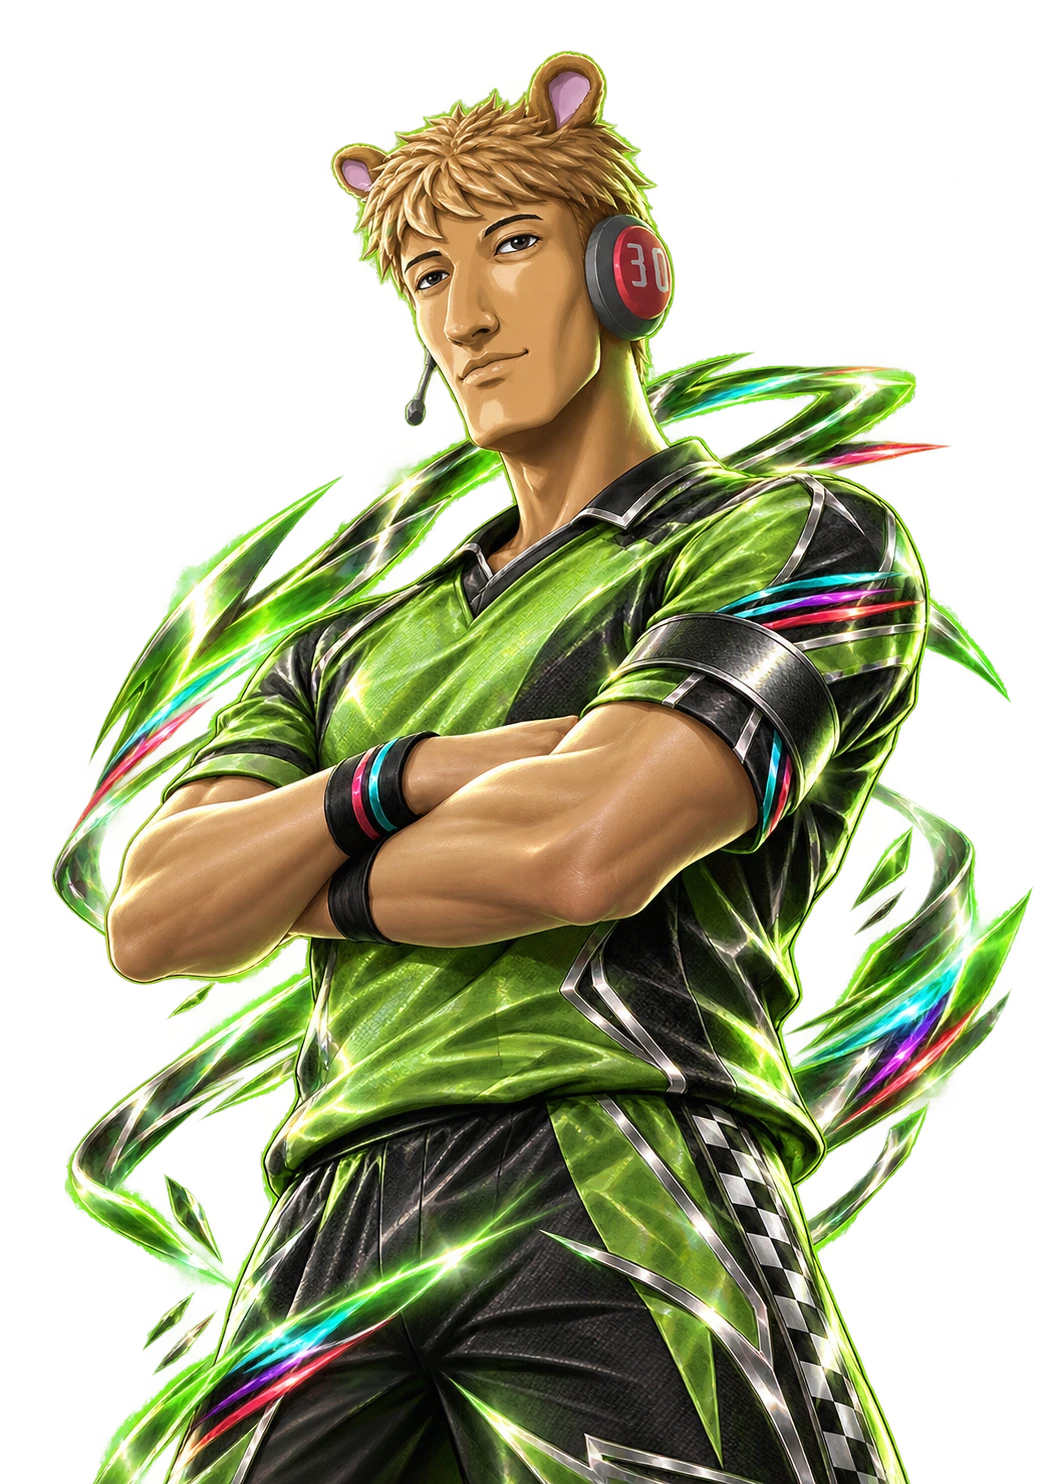
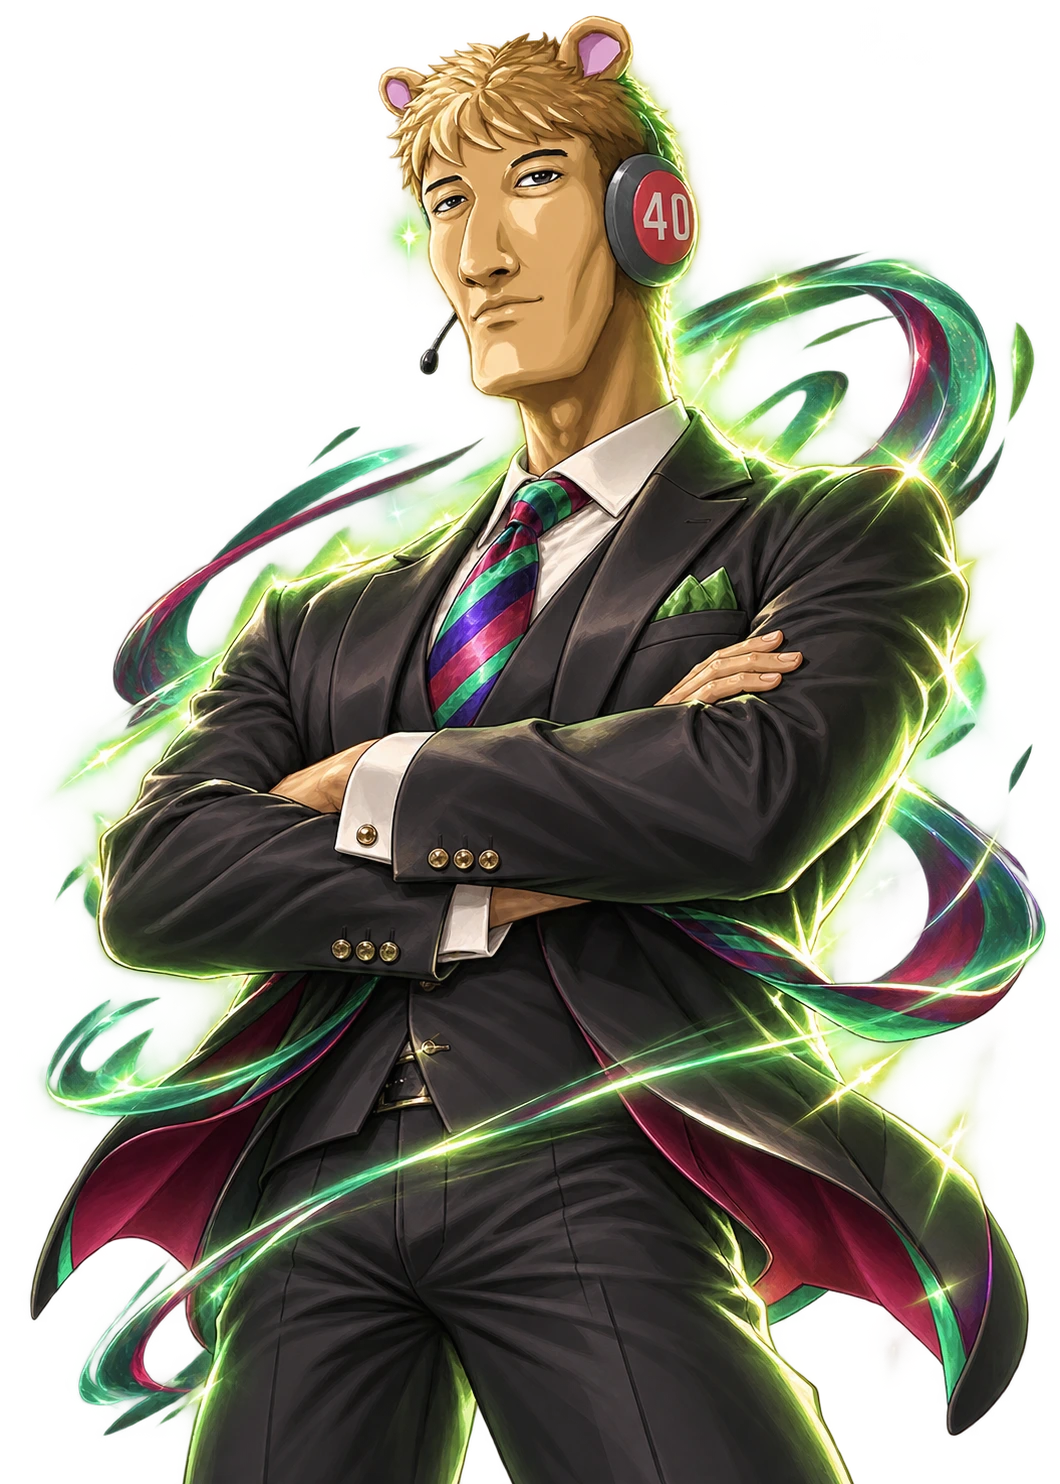
feat: replace 3d character image of wakgood

diff --git a/docs/toty-card-prompts.md b/docs/toty-card-prompts.md
@@ -1377,22 +1377,53 @@ people, no border/frame, no text. High detail, 4K, PNG, 1060x1484.
 
 **캐릭터** (우왁굳 참고 사진 첨부 + 완성된 프레임 이미지를 색상 참고용으로 함께 첨부):
 ```
-Turn the reference photo into a stylized premium trading-card 3D player
-render, semi-realistic style, using the same vivid peridot-green +
-teal-violet-crimson racing-stripe palette as the attached frame image. Kit
-in peridot-green with matte-black and chrome trim, subtle racing-stripe
-accents on the sleeve/collar (no real car brand logos or badges anywhere on
-the kit). A confident, commanding "team captain / director" pose — arms
-crossed or one hand raised in a decisive gesture, standing tall with a
-knowing grin, radiating authority over the whole club rather than a
-specific playing pose. A faint aura of glowing peridot-green energy with
-streaks of light like motion-blur speed lines curling around him. Viewed
-from a slight low front 3/4 angle, visible head to mid-thigh. Rich,
-dramatic rim lighting with a touch of chrome sparkle, matching the most
-lavish, highest-rarity treatment in this whole card series. No frame, no
-text, no background, no real brand logos — fully transparent PNG with
-alpha channel, 1060x1484, leave open space above the head and below the
-waist for name/stat overlays.
+Turn the reference photo into a stylized premium trading-card 3D render,
+semi-realistic style, using the same vivid peridot-green +
+teal-violet-crimson racing-stripe palette as the attached frame image. The
+reference photo's headphone ear-cup shows the number "30" — change this to
+"40" in the render (keep the same font/style/red badge look, digits only
+changed). Dressed as an elite football club manager/director rather than a
+player —
+a sharply tailored blazer over a crisp dress shirt, a slim racing-stripe
+silk tie in the teal-violet-crimson accent colors, a peridot-green pocket
+square, sleeve cuffs precise (no real car brand logos or badges anywhere
+on the outfit). A confident, commanding "club owner / manager" stance —
+arms crossed or one hand tucked into the blazer pocket, standing tall with
+a knowing grin, radiating authority over the whole club rather than a
+playing pose. A faint aura of glowing peridot-green energy with streaks of
+light like motion-blur speed lines curling around him. Viewed from a
+slight low front 3/4 angle, visible head to mid-thigh. Rich, dramatic rim
+lighting with a touch of chrome sparkle, matching the most lavish,
+highest-rarity treatment in this whole card series. No frame, no text, no
+background, no real brand logos — fully transparent PNG with alpha
+channel, 1060x1484, leave open space above the head and below the waist
+for name/stat overlays.
+```
+
+**캐릭터 호버** (기존 우왁굳 캐릭터 이미지를 참고로 첨부 + 완성된 프레임 이미지를 색상 참고용으로 함께 첨부):
+```
+Using the attached existing character render ONLY as an identity/likeness
+and outfit-color reference (same person, same tailored peridot-green +
+teal-violet-crimson racing-stripe manager's suit, same overall art style).
+That reference render's headphone ear-cup shows the number "30" — change
+this to "40" in the new render (keep the same font/style/red badge look,
+digits only changed). Do NOT repeat the same pose, and do NOT have him
+tearing, opening, or
+removing his shirt/jacket to reveal his body; keep him fully and sharply
+dressed in the suit throughout. Design a NEW, more dynamic and
+eye-catching alternate pose for this same "club director" character: a
+passionate touchline outburst — tie loosened, blazer caught flaring open
+like a cape in the wind (still worn, not shed), sleeves rolled up to the
+forearm, one arm thrust forward in a sharp pointing gesture as if barking
+tactical orders to the team, fierce determined expression. Streaks of
+glowing peridot-green motion-blur speed lines and chrome sparkle surge
+more intensely around him than in the base pose. Viewed from a slight low
+front 3/4 angle, visible head to mid-thigh. Rich, dramatic rim lighting
+with a touch of chrome sparkle, matching the most lavish, highest-rarity
+treatment in this whole card series. No frame, no text, no background, no
+real brand logos, no exposed torso — fully transparent PNG with alpha
+channel, 1060x1484, leave open space above the head and below the waist
+for name/stat overlays.
 ```
 
 **뒷면** (완성된 프레임 이미지를 실루엣 + 색상 참고용으로 함께 첨부):
